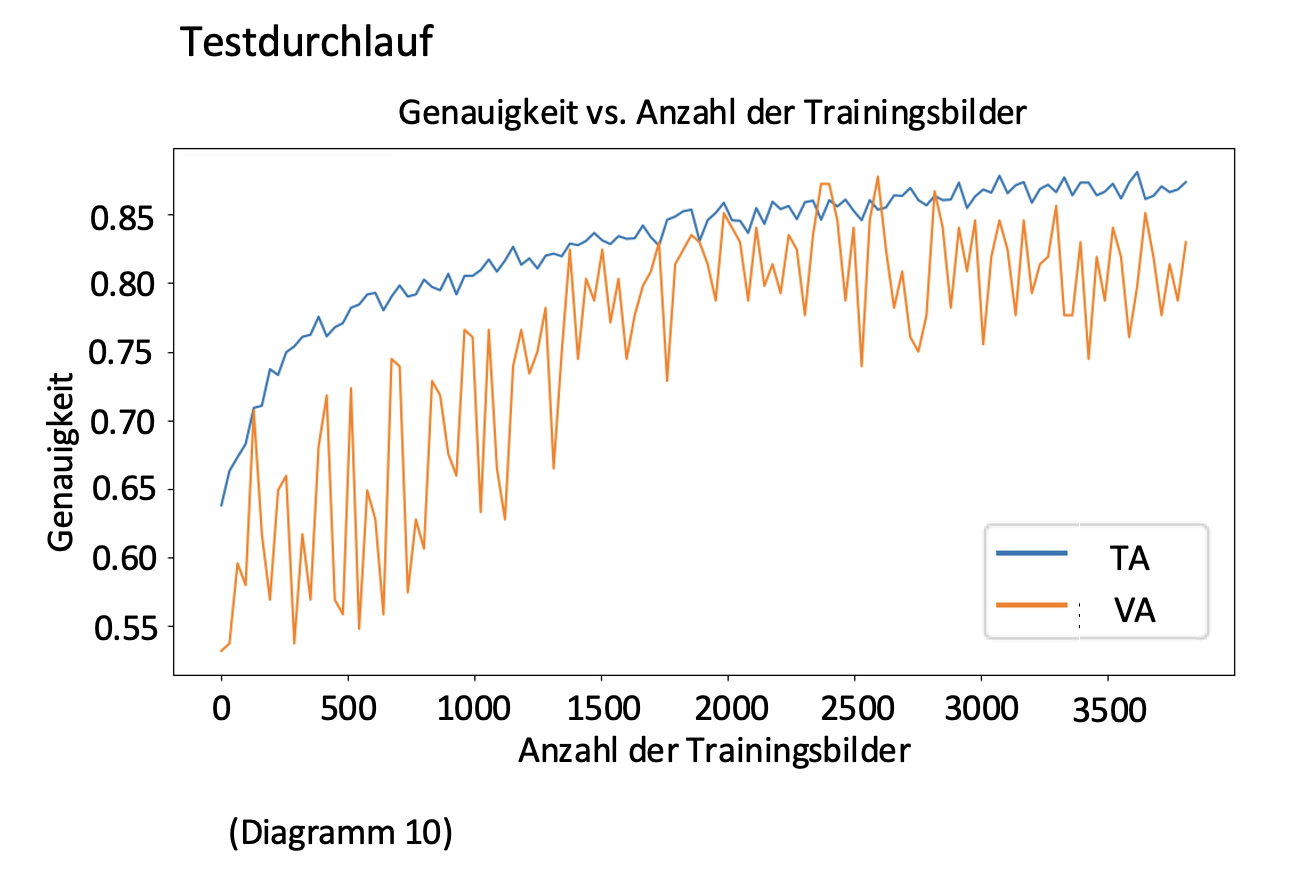
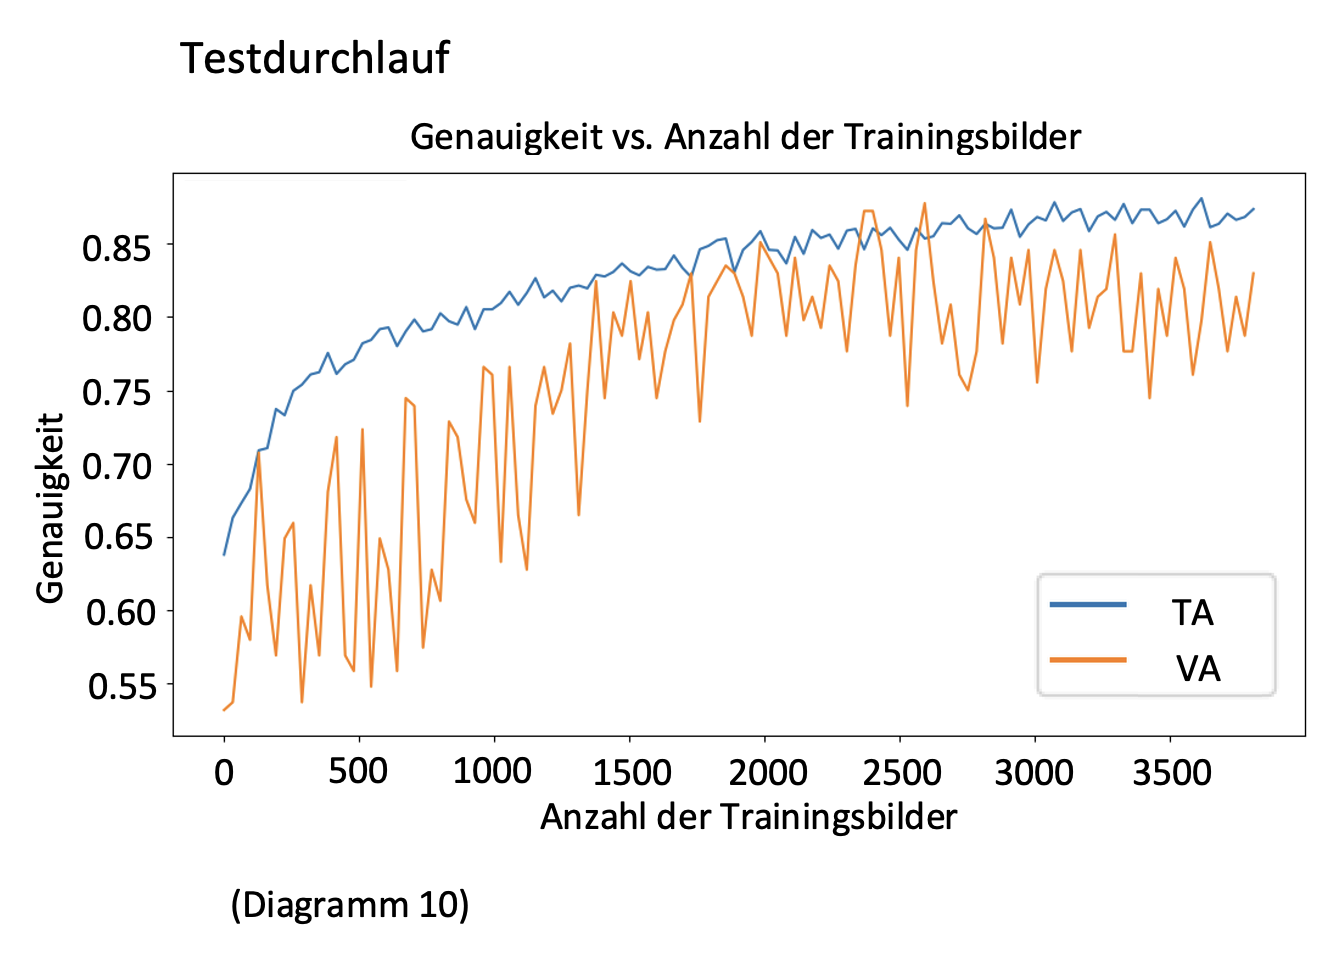
Änderungen

Changed region(s): [[0.0307, 0.0305, 0.9816, 0.8837], [0.7669, 0.579, 0.9816, 0.7009], [0.1534, 0.9142, 0.3681, 0.9752]]

diff --git a/main.py b/main.py
@@ -4,6 +4,7 @@ from tensorflow.keras.models import Sequential
 from tensorflow.keras.layers import Flatten, Dense, Conv2D, MaxPooling2D
 import matplotlib.pyplot as plt
 from sendmessage import sendmessage
+from  tensorflow.keras.callbacks import ModelCheckpoint
 
 # Bildverarbeitungs-Generators
 train_datagen = ImageDataGenerator(
@@ -26,7 +27,7 @@ model = Sequential([Conv2D(30, (3, 3), activation='relu', input_shape=(256, 256,
                     Conv2D(64, (3, 3), activation='relu'),
                     MaxPooling2D(2, 2), 
                     Flatten(),
-                    Dense(750, activation='relu'),
+                    Dense(1000, activation='relu'),
                     Dense(2, activation='softmax')])
 
 model.compile(optimizer='adam', loss='sparse_categorical_crossentropy', metrics=['accuracy'])
@@ -42,15 +43,25 @@ train_generator = train_datagen.flow_from_directory(
     batch_size=32,
     class_mode='binary')
 
+print(train_generator.class_indices)
+
 # Generieren und laden des Test-Datasets
 test_generator = test_datagen.flow_from_directory(
     'images/edges/test',
     target_size=(256, 256),
     batch_size=32,
-    class_mode='binary')
+    class_mode='binary') 
+
+checkpoint_path = "model/cp.ckpt"
+
+# Create a callback that saves the model's weights
+cp_callback = ModelCheckpoint(filepath=checkpoint_path,
+                                                 save_weights_only=True,
+                                                 verbose=1)
+
 
 # Trainieren des Modells
-history = model.fit(train_generator, epochs=40, validation_data=test_generator)
+history = model.fit(train_generator, epochs=60, validation_data=test_generator)
 
 def plot_accuracy_vs_training_data(history):
     acc = history.history['accuracy']

diff --git a/test-image.py b/test-image.py
@@ -1,0 +1,30 @@
+from tensorflow.keras.preprocessing import image
+from tensorflow.keras.models import load_model
+import numpy as np
+from PIL import Image, ImageFilter
+from rembg import remove
+
+model = load_model("model.h5")
+
+
+img = Image.open("img.jpeg")
+img = remove(img)
+img = img.convert("L")
+img = img.filter(ImageFilter.FIND_EDGES)
+img.save("img2.jpg")
+
+img = image.load_img("img2.jpg", target_size=(256, 256))
+
+img_array = image.img_to_array(img)
+img_array = img_array / 255.0
+img_array = np.expand_dims(img_array, axis=0)
+
+print("loaded photo")
+
+predictions = model.predict(img_array)
+
+print("Vorhersagen:", predictions)
+class_labels = {'dogs': 0, 'wolves': 1}
+predicted_class = np.argmax(predictions)
+predicted_label = [k for k, v in class_labels.items() if v == predicted_class][0]
+print("Vorhergesagte Klasse:", predicted_label)

diff --git a/main-raspberry.py b/main-raspberry.py
@@ -1,0 +1,25 @@
+import RPi.GPIO as GPIO
+import time
+from picamera2 import *
+
+cam = PiCamera2()
+
+
+cam.start_and_capture_file("test.jpg")
+ 
+SENSOR_PIN = 23
+ 
+GPIO.setmode(GPIO.BCM)
+GPIO.setup(SENSOR_PIN, GPIO.IN)
+ 
+def mein_callback(channel):
+    # Hier kann alternativ eine Anwendung/Befehl etc. gestartet werden.
+    print('Es gab eine Bewegung!')
+ 
+try:
+    GPIO.add_event_detect(SENSOR_PIN , GPIO.RISING, callback=mein_callback)
+    while True:
+        time.sleep(100)
+except KeyboardInterrupt:
+    print("Beende...")
+GPIO.cleanup()
